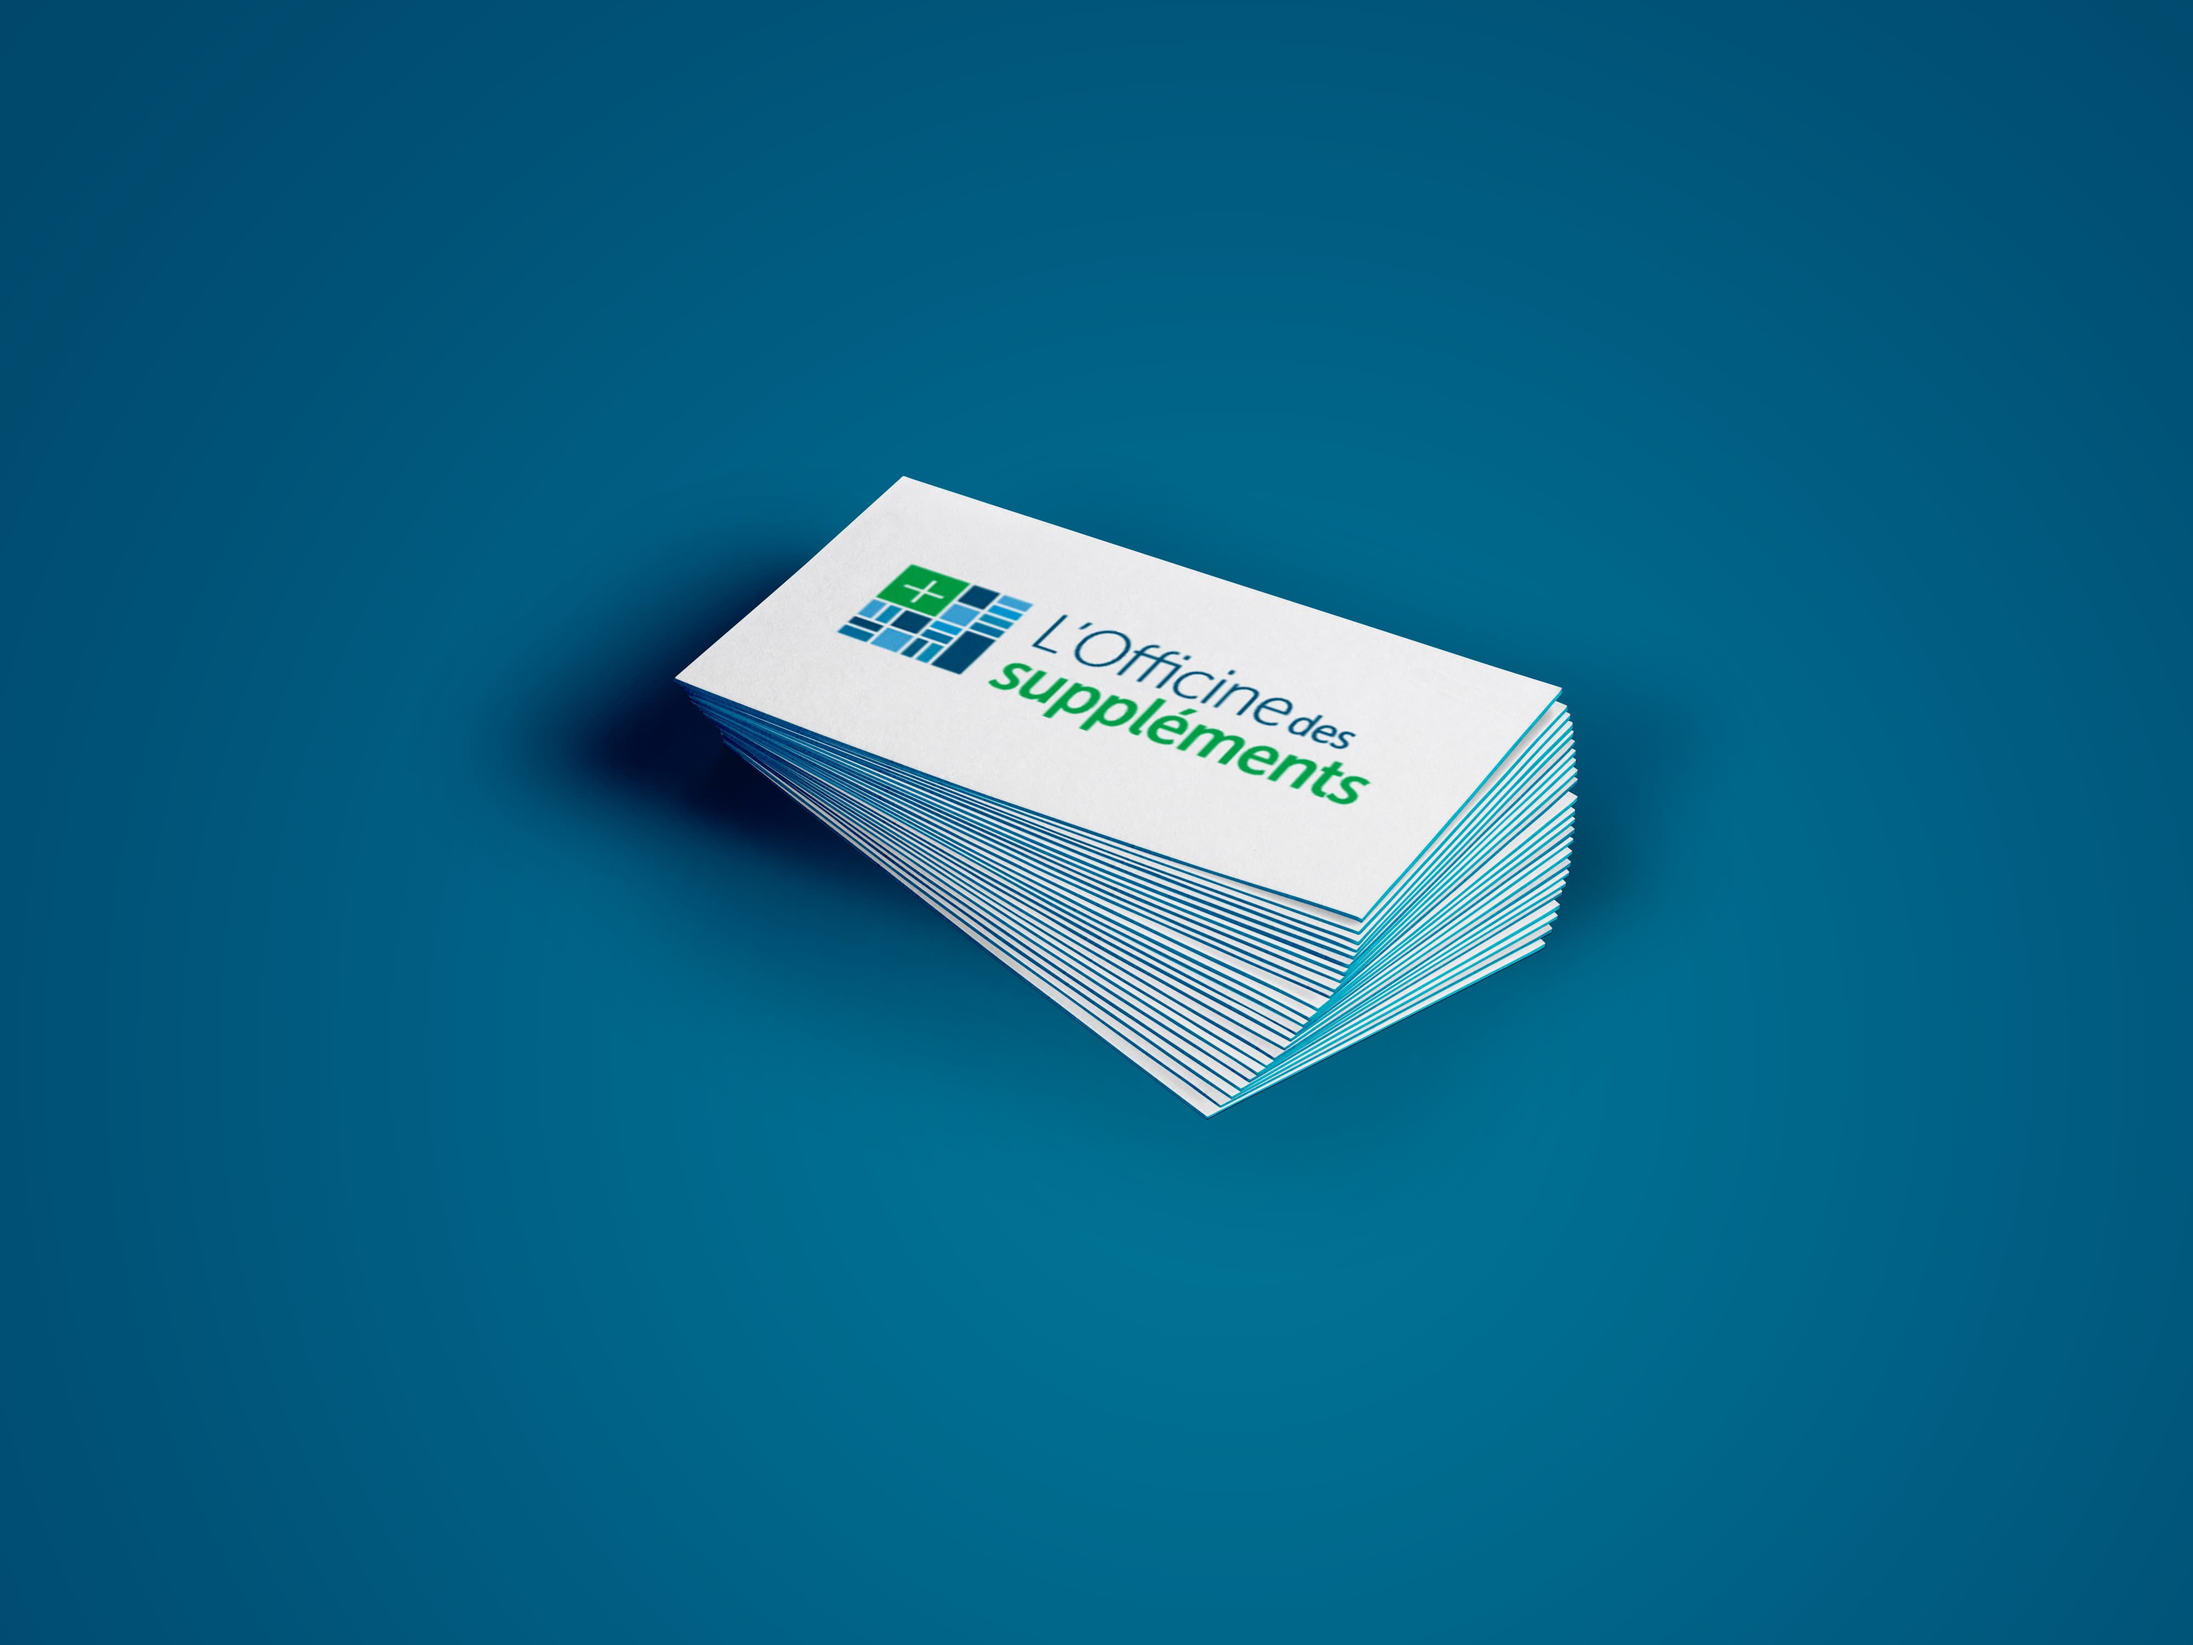
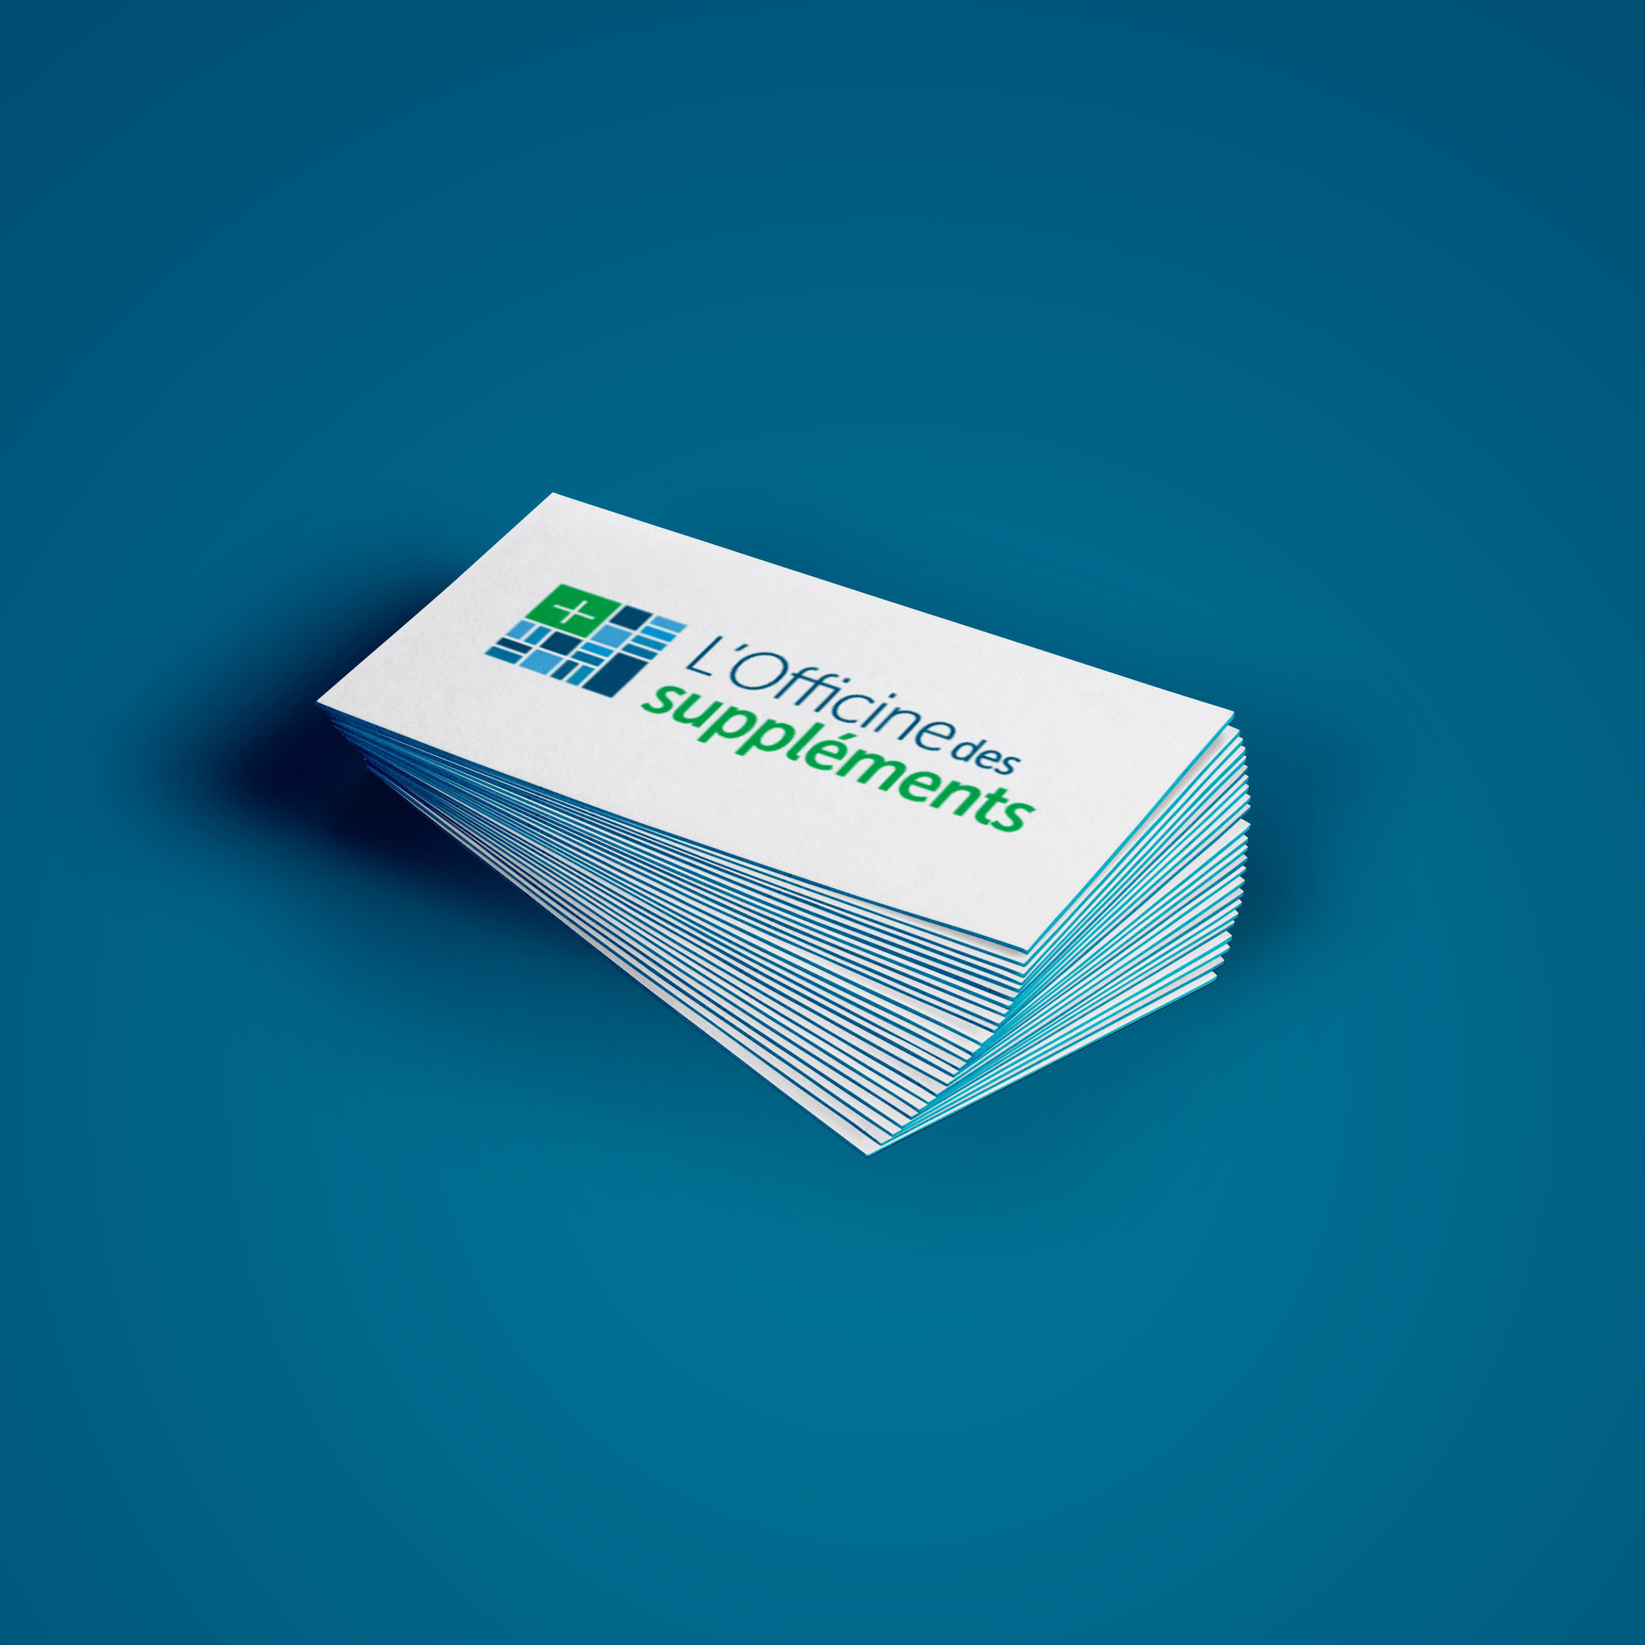
+ work

Changed region(s): [[0.093, 0.279, 0.806, 0.713]]

diff --git a/work.php b/work.php
@@ -96,190 +96,30 @@
 
         </section>
 
+        <!--Print-->
         <section>
         
           <header>
-            <h2 class="bit-1 title-small">Miscellaneous</h2>
+            <h2 class="bit-1 title-small">Print</h2>
           </header>
 
-          <!--Lucie Charbonneau-->
-          <div class="bit-1 mg-b">
-          
-            <div class="bit-2 img-1-1 lazy" data-original="/assets/img/other-work/all-the-secrets-you-ve-kept-till-now-murale.jpg"></div>
-
-            <div class="bit-2 pd-l-d">
-
-              <p>
-                <span class="subtitle">Client</span><br>
-                Private individual
-              </p>
-
-              <p>
-                <span class="subtitle">Industry</span><br>
-                Music
-              </p>
-
-              <p>
-                <span class="subtitle">Deliverable</span><br>
-                - Murale (mixed media), 72 x 72 in
-              </p>
-              
-            </div>
-
-          </div>
-
-          <!--OICRM (Programme)-->
-          <div class="bit-1 mg-b">
-          
+          <div class="bit-1">
             <div class="bit-2 img-1-1 lazy" data-original="/assets/img/other-work/oicrm-programme.jpg"></div>
-
-            <div class="bit-2">
-
-              <div class="pd-l-d">
-              
-                <p class="mg-b">
-                  <span class="subtitle">Client</span><br>
-                  <a href="http://oicrm.org/" target="_blank" class="link">OICRM&nbsp;&rarr;</a>
-                </p>
-
-                <p class="mg-b">
-                  <span class="subtitle">Industry</span><br>
-                  Music
-                </p>
-
-                <p>
-                  <span class="subtitle">Deliverable</span><br>
-                  - Bilingual programme (60 pages)
-                </p>
-              
-              </div>
-
-              <p class="bit-1 pd-l-d">
-                <a href="/assets/pdf/oicrm-programme.pdf" target="_blank" class="btn left">download programme&nbsp;&nbsp;<span class="icon download">&rarr;</span></a>
-              </p>
-              
-            </div>
-
-          </div>
-
-          <!--Task Angels-->
-          <div class="bit-1 mg-b">
-          
             <div class="bit-2 img-1-1 lazy" data-original="/assets/img/other-work/task-angels-business-card.jpg"></div>
 
-            <div class="bit-2 pd-l-d">
-
-              <p class="mg-b">
-                <span class="subtitle">Client</span><br>
-                <a href="http://www.taskangels.org/index.html" target="_blank" class="link">Task Angels&nbsp;&rarr;</a>
-              </p>
-
-              <p class="mg-b">
-                <span class="subtitle">Industry</span><br>
-                Renovation, maintenance and moving
-              </p>
-
-              <p>
-                <span class="subtitle">Deliverable</span><br>
-                - New visual identity (logo)<br>
-                - Business cards<br>
-              </p>
-              
-            </div>
-
-          </div>
-
-          <!--OICRM (Poster TRM)-->
-          <div class="bit-1 mg-b">
-          
-            <img class="bit-2 img mg-b border lazy" src="/assets/img/other-work/oicrm-poster-trm.jpg">
-
-            <div class="bit-2 pd-l-d">
-
-              <p class="mg-b">
-                <span class="subtitle">Client</span><br>
-                <a href="http://oicrm.org/" target="_blank" class="link">OICRM&nbsp;&rarr;</a>
-              </p>
-
-              <p class="mg-b">
-                <span class="subtitle">Industry</span><br>
-                Music
-              </p>
-
-              <p>
-                <span class="subtitle">Deliverable</span><br>
-                - Poster<br>
-              </p>
-              
-            </div>
-
-          </div>
-
-          <!--OICRM (Poster Denis Gougeon)-->
-          <div class="bit-1 mg-b">
-          
-            <img class="bit-2 img mg-b border lazy" src="/assets/img/other-work/oicrm-poster-denis-gougeon.jpg">
-
-            <div class="bit-2 pd-l-d">
-
-              <p class="mg-b">
-                <span class="subtitle">Client</span><br>
-                <a href="http://oicrm.org/" target="_blank" class="link">OICRM&nbsp;&rarr;</a>
-              </p>
-
-              <p class="mg-b">
-                <span class="subtitle">Industry</span><br>
-                Music
-              </p>
-
-              <p>
-                <span class="subtitle">Deliverable</span><br>
-                - Poster<br>
-              </p>
-              
-            </div>
-
-          </div>
-
-          <!--KEM (illustration)-->
-          <div class="bit-1 mg-b">
-          
             <img class="bit-2 img lazy" src="/assets/img/other-work/kem-illustration.jpg">
+            <img class="bit-2 img lazy" src="/assets/img/other-work/officine-des-supplements-business-card.jpg">
 
-            <div class="bit-2">
+            <img class="bit-2 img lazy" src="/assets/img/other-work/regions-en-sante-business-card.jpg">
+            <div class="bit-2 img-1-1 lazy" data-original="/assets/img/other-work/all-the-secrets-you-ve-kept-till-now-murale.jpg"></div>
 
-              <div class="pd-l-d">
-              
-                <p class="mg-b">
-                  <span class="subtitle">Client</span><br>
-                  KEM Solutions
-                </p>
-
-                <p class="mg-b">
-                  <span class="subtitle">Industry</span><br>
-                  Health
-                </p>
-
-                <p>
-                  <span class="subtitle">Deliverable</span><br>
-                  - Illustrated advertisement (print)
-                </p>
-              
-              </div>
-
-              <p class="bit-1 pd-l-d">
-                <a href="/assets/pdf/kem-illustration.pdf" target="_blank" class="btn left">download ad&nbsp;&nbsp;<span class="icon download">&rarr;</span></a>
-              </p>
-              
-            </div>
-
+            <img class="bit-2 img lazy" src="/assets/img/other-work/oicrm-poster-trm.jpg">
+            <img class="bit-2 img lazy" src="/assets/img/other-work/oicrm-poster-denis-gougeon.jpg">
           </div>
 
         </section>
 
       </article>
-
-      <!--<a href="http://www.1and1.com/web-hosting?kwk=520623385&ac=OM.US.US930K244547B7030a" rel="nofollow"><img src="http://adimg.uimserv.net/1und1/KWK/Classic-Hosting/US/NewHosting_kwk_us_sw_728x90.gif"/></a>-->
 
     </main>
 

diff --git a/projects/la-parapharmacie.php b/projects/la-parapharmacie.php
@@ -50,7 +50,8 @@
               <span class="bold">Deliverables</span><br>
               - New visual identity &amp; brand guidelines<br>
               - Business cards, flyers, leaflets, posters<br>
-              - Social media assets &amp; announcements
+              - Layout of administrative &amp; informative documents<br>
+              - Social media assets &amp; bilingual announcements
             </p>
 
             <p>

diff --git a/includes/scripts.php b/includes/scripts.php
@@ -8,12 +8,15 @@
 
 <!--Lazyload-->
 <script>
-$(function() {
+  $(function() {
     $("div.lazy").lazyload({
     effect : "fadeIn"
     });
-});
+  });
 </script>
+
+<!--ScrollReveal-->
+<script src="https://unpkg.com/scrollreveal/dist/scrollreveal.min.js"></script>
 
 <!--Clicky-->
 <script src="//static.getclicky.com/js" type="text/javascript"></script>
